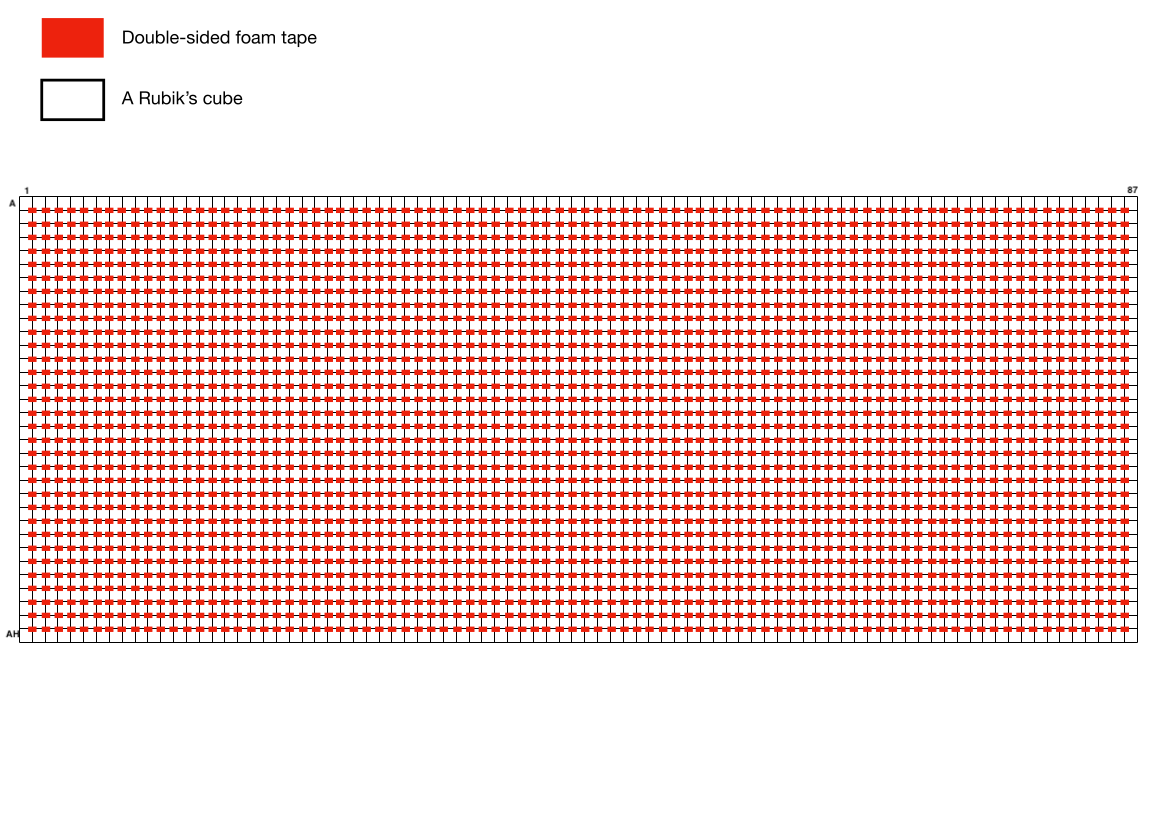
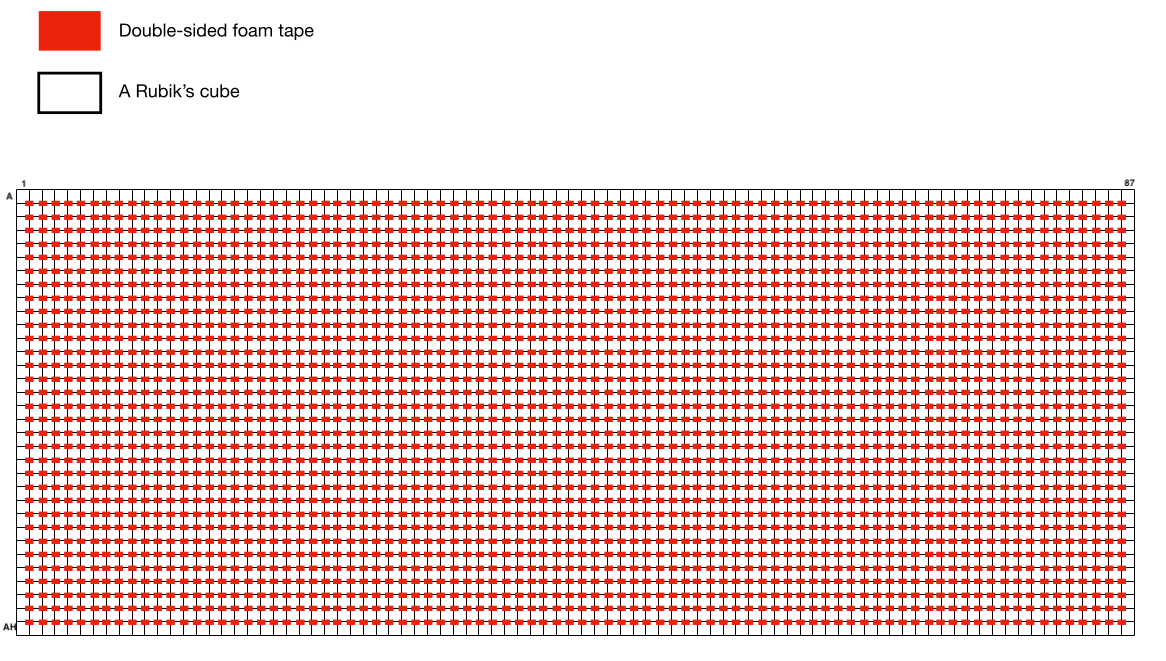
resize images

diff --git a/documents/functionalSpecifications.md b/documents/functionalSpecifications.md
@@ -168,7 +168,7 @@ Each team will be provided:
 - The grid will have the colours and the number of the cube.
 - A program that will let the user input the image of the fresco and select the id of the Rubik's cube (e.g: A1, B1, C1, etc.). The program will then return an image of the 3x3 Rubik's cube with the correct colours.
 
-<img src="../images/cli.png" style="height:200px">
+<img src="../images/cli.png" style="height:150px">
 
 The grid will be organised as:
 
@@ -199,7 +199,7 @@ Before the transfer from the project's rooms of the library, each of the teams s
 
 Once done, the teams will use a carton to transfer by putting the cubes on it in order to be easier to transfer in the fresco.
 
-<img src="../images/transfer.png" style="height:300px">
+<img src="../images/transfer.png" style="height:200px">
 
 ### Set up
 
@@ -213,7 +213,7 @@ The double-sided foam tape will be used to fix the cubes to the wall. A piece of
 
 The pieces of tape will be added to the wall during the draw of the grid, so during the placement of the Rubik's cubes, only the protective tape will need to be removed. This procedure will also avoid errors in tape placement.
 
-<img src="../images/tapeMockup.png" style="height:400px">
+<img src="../images/tapeMockup.png" style="height:250px">
 
 ## Project Management
 
@@ -275,13 +275,13 @@ To be able to scotch all the Rubik's cubes to the library's wall, 18 meters / 59
 - The total for the tape needed is 14.75 euros all taxes incuded;
 - These tapes are available at Action. Av. du 19 Mars 1962, 18100 Vierzon.
 
-<img src="../images/adhesive.png" style="height:200px">
+<img src="../images/adhesive.png" style="height:150px">
 
 - **Bubble level**
 
 To be sure that the Rubik's cubes are well aligned, a bubble level would help us to be sure. People in the team already own a bubble level, so there is no need to buy one.
 
-<img src="../images/bubbleLevel.png" style="height:200px">
+<img src="../images/bubbleLevel.png" style="height:150px">
 
 - **Go Pro**
 
@@ -299,7 +299,7 @@ Some pencils and an erasers will be needed to mark the wall and on the cardboard
 
 One 1m ruler will be needed to to create straight marks on the wall and on the cardboards.
 
-<img src="../images/ruler.png" style="height:200px">
+<img src="../images/ruler.png" style="height:150px">
 
 ## Budget
 
@@ -334,7 +334,7 @@ It is imperative that all team members and stakeholders involved adhere to the f
 - A Rubik's cube in the wrong place -> Display the grid on the wall and a picture of he final fresco on the library;
 - Rubik's cube size variation, some cubes might be smaller or bigger than other ones -> Do a mold in order to check if the size of the Rubik's cube before placing them. 
 
-<img src="../images/rubikTest.png" style="height:350px">
+<img src="../images/rubikTest.png" style="height:200px">
 
 ## Milestones
 
